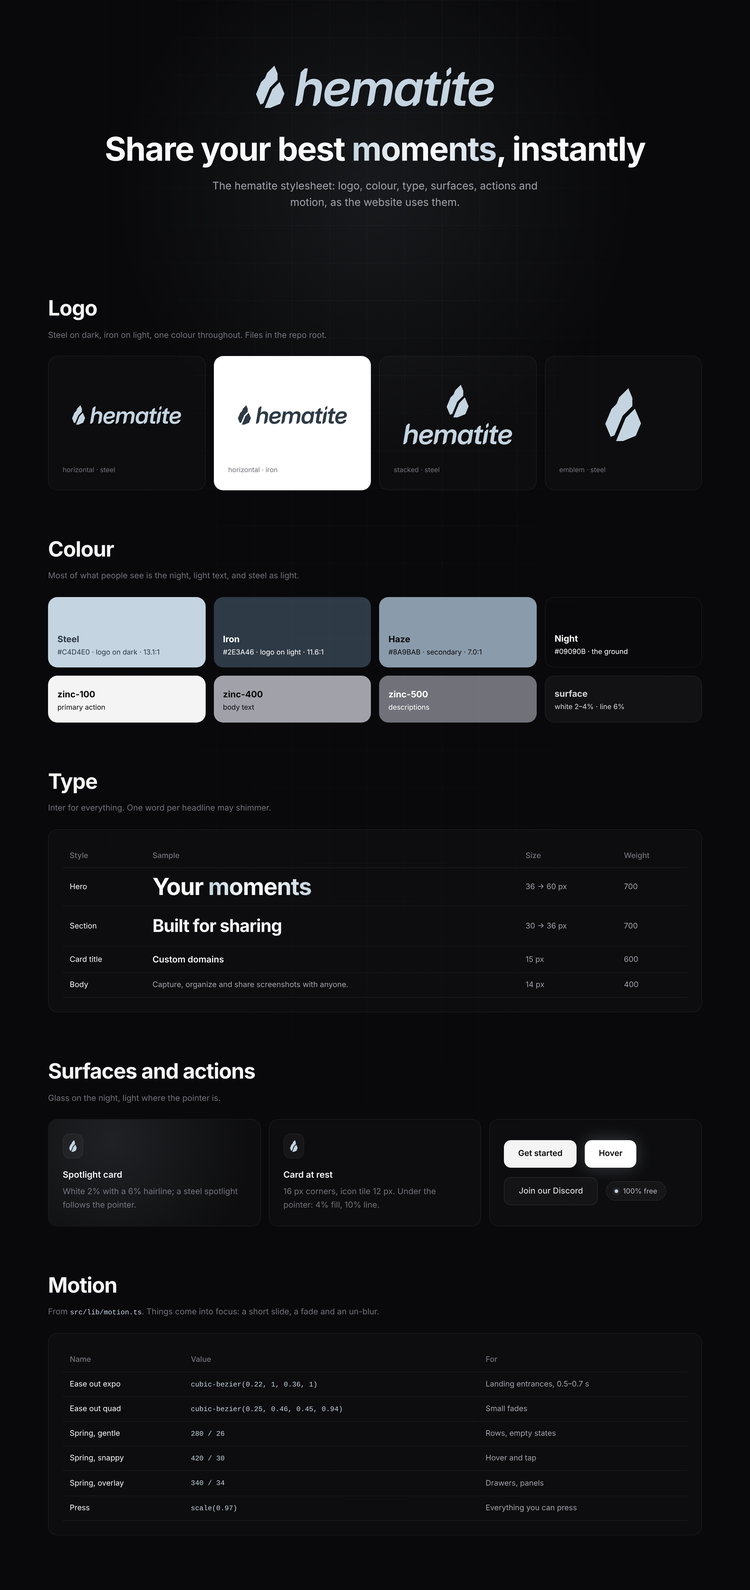
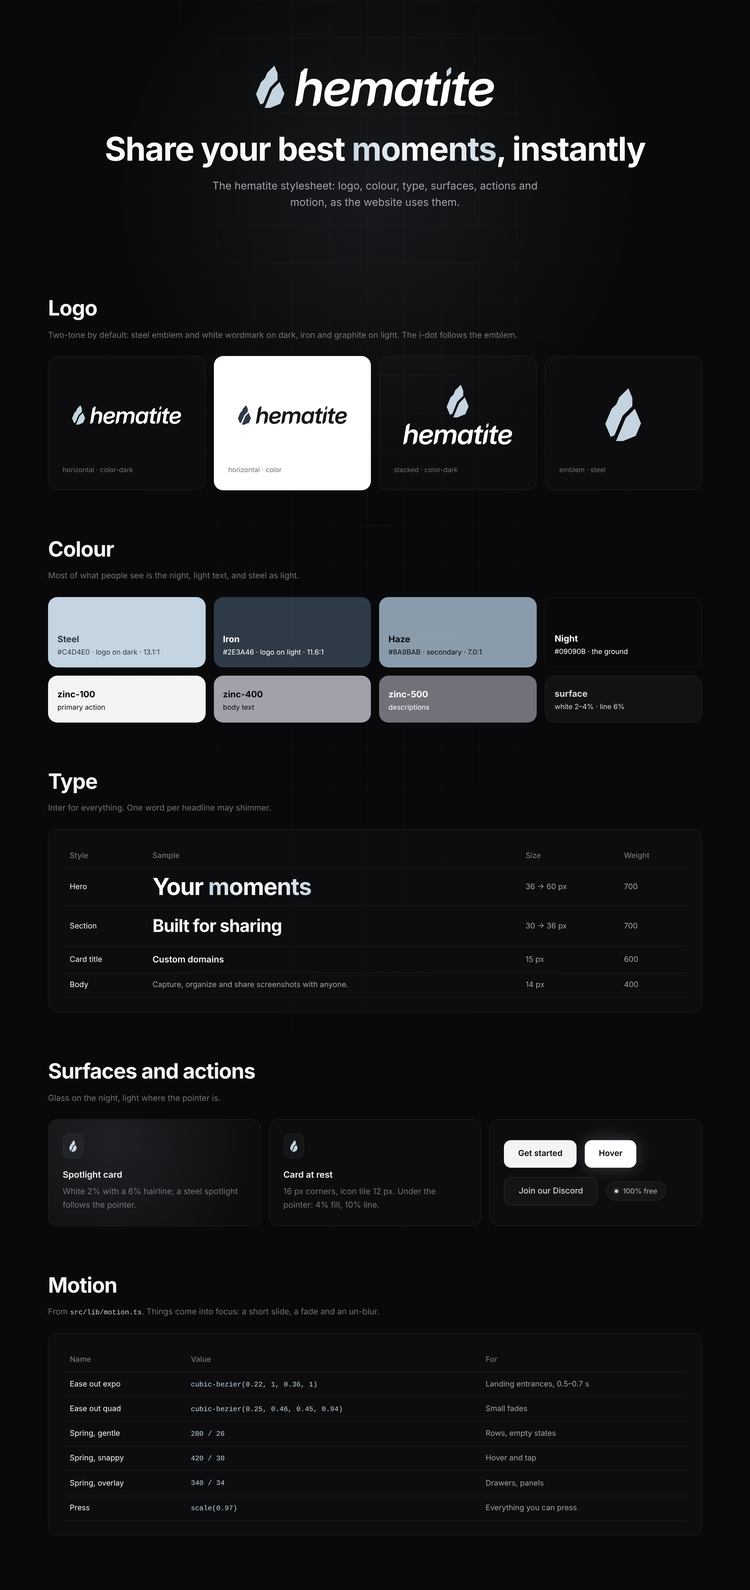
Add two-tone colourways color and color-dark

diff --git a/overview.html b/overview.html
@@ -4,4 +4,4 @@ h1{font-size:30px;margin:0 0 6px;letter-spacing:-.02em}.sub{color:#666;font-size
 .row{display:flex;gap:14px;margin-bottom:14px}.card{border-radius:12px;display:flex;align-items:center;justify-content:center;position:relative;overflow:hidden;flex:1}
 .b{border:1px solid #e3e3e6}.cap{position:absolute;left:12px;bottom:9px;font-size:11px;color:#8a8a92}
 .sw{flex:1;border-radius:12px;height:110px;padding:14px;display:flex;flex-direction:column;justify-content:flex-end;font-size:12px}.sw b{font-size:14px}
-.tab{display:flex;align-items:center;gap:8px;border-radius:8px;padding:7px 12px;width:240px;font-size:12.5px}</style></head><body><h1>hematite — logo system</h1><div class="sub">Emblem E2 · wordmark B2 (Inter Display SemiBold Italic, drawn) · C2 light cuts at 45° · S6 shard i-dot. Flat only. 11 Nov 2026.</div><div class="sec"><h2>01 — Primary logo</h2><div class="d">Horizontal lockup. Steel on night is the default; iron on white for light backgrounds.</div><div class="row"><div class="card" style="height:300px;background:#09090B"><img src="horizontal/svg/hematite-horizontal-steel.svg" style="max-height:110px;max-width:86%;"></div></div><div class="row"><div class="card b" style="height:200px;background:#fff"><img src="horizontal/svg/hematite-horizontal-iron.svg" style="max-height:80px;max-width:86%;"></div><div class="card" style="height:200px;background:#2E3A46"><img src="horizontal/svg/hematite-horizontal-white.svg" style="max-height:80px;max-width:86%;"></div></div></div><div class="sec"><h2>02 — Lockups and colourways</h2><div class="d">horizontal/, stacked/, wordmark/, emblem/ · each in steel, iron, black and white · SVG + PNG 1x–4x.</div><div class="row"><div class="card " style="height:130px;background:#09090B"><img src="horizontal/svg/hematite-horizontal-steel.svg" style="max-height:54px;max-width:86%;"><div class="cap">horizontal · steel</div></div><div class="card b" style="height:130px;background:#FFFFFF"><img src="horizontal/svg/hematite-horizontal-iron.svg" style="max-height:54px;max-width:86%;"><div class="cap">horizontal · iron</div></div><div class="card b" style="height:130px;background:#FFFFFF"><img src="horizontal/svg/hematite-horizontal-black.svg" style="max-height:54px;max-width:86%;"><div class="cap">horizontal · black</div></div><div class="card " style="height:130px;background:#2E3A46"><img src="horizontal/svg/hematite-horizontal-white.svg" style="max-height:54px;max-width:86%;"><div class="cap">horizontal · white</div></div></div><div class="row"><div class="card " style="height:230px;background:#09090B"><img src="stacked/svg/hematite-stacked-steel.svg" style="max-height:150px;max-width:86%;"><div class="cap">stacked · steel</div></div><div class="card b" style="height:230px;background:#FFFFFF"><img src="stacked/svg/hematite-stacked-iron.svg" style="max-height:150px;max-width:86%;"><div class="cap">stacked · iron</div></div><div class="card b" style="height:230px;background:#FFFFFF"><img src="stacked/svg/hematite-stacked-black.svg" style="max-height:150px;max-width:86%;"><div class="cap">stacked · black</div></div><div class="card " style="height:230px;background:#2E3A46"><img src="stacked/svg/hematite-stacked-white.svg" style="max-height:150px;max-width:86%;"><div class="cap">stacked · white</div></div></div><div class="row"><div class="card " style="height:110px;background:#09090B"><img src="wordmark/svg/hematite-wordmark-steel.svg" style="max-height:40px;max-width:86%;"><div class="cap">wordmark · steel</div></div><div class="card b" style="height:110px;background:#FFFFFF"><img src="wordmark/svg/hematite-wordmark-iron.svg" style="max-height:40px;max-width:86%;"><div class="cap">wordmark · iron</div></div><div class="card b" style="height:110px;background:#FFFFFF"><img src="wordmark/svg/hematite-wordmark-black.svg" style="max-height:40px;max-width:86%;"><div class="cap">wordmark · black</div></div><div class="card " style="height:110px;background:#2E3A46"><img src="wordmark/svg/hematite-wordmark-white.svg" style="max-height:40px;max-width:86%;"><div class="cap">wordmark · white</div></div></div><div class="row"><div class="card " style="height:180px;background:#09090B"><img src="emblem/svg/hematite-emblem-steel.svg" style="max-height:110px;max-width:86%;"><div class="cap">emblem · steel</div></div><div class="card b" style="height:180px;background:#FFFFFF"><img src="emblem/svg/hematite-emblem-iron.svg" style="max-height:110px;max-width:86%;"><div class="cap">emblem · iron</div></div><div class="card b" style="height:180px;background:#FFFFFF"><img src="emblem/svg/hematite-emblem-black.svg" style="max-height:110px;max-width:86%;"><div class="cap">emblem · black</div></div><div class="card " style="height:180px;background:#2E3A46"><img src="emblem/svg/hematite-emblem-white.svg" style="max-height:110px;max-width:86%;"><div class="cap">emblem · white</div></div></div></div><div class="sec"><h2>03 — Favicons and app icons</h2><div class="d">favicon/: favicon.svg (iron on light tabs, steel on dark), favicon.ico 16/32/48 and PNGs in haze #8A9BAB, which reads on both. Up to 48 px the emblem uses a small-size cut with a wider cleft. app-icon/: 1024 px on night and on steel, square and rounded.</div><div class="row"><div class="card b" style="height:90px;background:#F2F2F4"><div class="tab" style="background:#fff;color:#333"><img src="favicon/favicon-32.png" style="width:16px;height:16px">hematite.gg</div></div><div class="card" style="height:90px;background:#1C1C20"><div class="tab" style="background:#2A2A30;color:#ddd"><img src="favicon/favicon-32.png" style="width:16px;height:16px">hematite.gg</div></div><div class="card b" style="height:90px;background:#fff;gap:18px"><img src="favicon/favicon-16.png" style="width:16px"><img src="favicon/favicon-32.png" style="width:32px"><img src="favicon/favicon-48.png" style="width:48px"><img src="favicon/favicon-64.png" style="width:64px"></div></div><div class="row"><div class="card b" style="height:240px;gap:28px;background:#fff"><img src="app-icon/hematite-app-icon-night-rounded-1024.png" style="max-height:170px;max-width:86%;"><img src="app-icon/hematite-app-icon-steel-rounded-1024.png" style="max-height:170px;max-width:86%;"><img src="favicon/apple-touch-icon.png" style="max-height:90px;max-width:86%;border-radius:20px"></div></div></div><div class="sec"><h2>04 — Colours</h2><div class="row"><div class="sw" style="background:#C4D4E0;color:#151515;border:1px solid #ddd"><b>Steel</b>#C4D4E0 · Brand colour on dark</div><div class="sw" style="background:#2E3A46;color:#fff;"><b>Iron</b>#2E3A46 · Brand colour on light</div><div class="sw" style="background:#8A9BAB;color:#151515;"><b>Haze</b>#8A9BAB · Secondary, favicons</div><div class="sw" style="background:#09090B;color:#fff;"><b>Night</b>#09090B · Ground</div></div></div></body></html>
+.tab{display:flex;align-items:center;gap:8px;border-radius:8px;padding:7px 12px;width:240px;font-size:12.5px}</style></head><body><h1>hematite — logo system</h1><div class="sub">Emblem E2 · wordmark B2 (Inter Display SemiBold Italic, drawn) · C2 light cuts at 45° · S6 shard i-dot · two-tone T1/L1. Flat only. 11 Nov 2026.</div><div class="sec"><h2>01 — Primary logo</h2><div class="d">Horizontal lockup, two-tone: steel emblem and white wordmark on night (color-dark, the default), iron emblem and graphite wordmark on white (color). The i-dot follows the emblem.</div><div class="row"><div class="card" style="height:300px;background:#09090B"><img src="horizontal/svg/hematite-horizontal-color-dark.svg" style="max-height:110px;max-width:86%;"></div></div><div class="row"><div class="card b" style="height:200px;background:#fff"><img src="horizontal/svg/hematite-horizontal-color.svg" style="max-height:80px;max-width:86%;"></div><div class="card" style="height:200px;background:#2E3A46"><img src="horizontal/svg/hematite-horizontal-white.svg" style="max-height:80px;max-width:86%;"></div></div></div><div class="sec"><h2>02 — Lockups and colourways</h2><div class="d">horizontal/, stacked/, wordmark/ in color-dark, color, steel, iron, black and white; emblem/ in the four one-colour versions · SVG + PNG 1x–4x.</div><div class="row"><div class="card " style="height:120px;background:#09090B"><img src="horizontal/svg/hematite-horizontal-color-dark.svg" style="max-height:44px;max-width:86%;"><div class="cap">horizontal · color-dark</div></div><div class="card b" style="height:120px;background:#FFFFFF"><img src="horizontal/svg/hematite-horizontal-color.svg" style="max-height:44px;max-width:86%;"><div class="cap">horizontal · color</div></div><div class="card " style="height:120px;background:#09090B"><img src="horizontal/svg/hematite-horizontal-steel.svg" style="max-height:44px;max-width:86%;"><div class="cap">horizontal · steel</div></div><div class="card b" style="height:120px;background:#FFFFFF"><img src="horizontal/svg/hematite-horizontal-iron.svg" style="max-height:44px;max-width:86%;"><div class="cap">horizontal · iron</div></div><div class="card b" style="height:120px;background:#FFFFFF"><img src="horizontal/svg/hematite-horizontal-black.svg" style="max-height:44px;max-width:86%;"><div class="cap">horizontal · black</div></div><div class="card " style="height:120px;background:#2E3A46"><img src="horizontal/svg/hematite-horizontal-white.svg" style="max-height:44px;max-width:86%;"><div class="cap">horizontal · white</div></div></div><div class="row"><div class="card " style="height:210px;background:#09090B"><img src="stacked/svg/hematite-stacked-color-dark.svg" style="max-height:130px;max-width:86%;"><div class="cap">stacked · color-dark</div></div><div class="card b" style="height:210px;background:#FFFFFF"><img src="stacked/svg/hematite-stacked-color.svg" style="max-height:130px;max-width:86%;"><div class="cap">stacked · color</div></div><div class="card " style="height:210px;background:#09090B"><img src="stacked/svg/hematite-stacked-steel.svg" style="max-height:130px;max-width:86%;"><div class="cap">stacked · steel</div></div><div class="card b" style="height:210px;background:#FFFFFF"><img src="stacked/svg/hematite-stacked-iron.svg" style="max-height:130px;max-width:86%;"><div class="cap">stacked · iron</div></div><div class="card b" style="height:210px;background:#FFFFFF"><img src="stacked/svg/hematite-stacked-black.svg" style="max-height:130px;max-width:86%;"><div class="cap">stacked · black</div></div><div class="card " style="height:210px;background:#2E3A46"><img src="stacked/svg/hematite-stacked-white.svg" style="max-height:130px;max-width:86%;"><div class="cap">stacked · white</div></div></div><div class="row"><div class="card " style="height:100px;background:#09090B"><img src="wordmark/svg/hematite-wordmark-color-dark.svg" style="max-height:34px;max-width:86%;"><div class="cap">wordmark · color-dark</div></div><div class="card b" style="height:100px;background:#FFFFFF"><img src="wordmark/svg/hematite-wordmark-color.svg" style="max-height:34px;max-width:86%;"><div class="cap">wordmark · color</div></div><div class="card " style="height:100px;background:#09090B"><img src="wordmark/svg/hematite-wordmark-steel.svg" style="max-height:34px;max-width:86%;"><div class="cap">wordmark · steel</div></div><div class="card b" style="height:100px;background:#FFFFFF"><img src="wordmark/svg/hematite-wordmark-iron.svg" style="max-height:34px;max-width:86%;"><div class="cap">wordmark · iron</div></div><div class="card b" style="height:100px;background:#FFFFFF"><img src="wordmark/svg/hematite-wordmark-black.svg" style="max-height:34px;max-width:86%;"><div class="cap">wordmark · black</div></div><div class="card " style="height:100px;background:#2E3A46"><img src="wordmark/svg/hematite-wordmark-white.svg" style="max-height:34px;max-width:86%;"><div class="cap">wordmark · white</div></div></div><div class="row"><div class="card " style="height:170px;background:#09090B"><img src="emblem/svg/hematite-emblem-steel.svg" style="max-height:100px;max-width:86%;"><div class="cap">emblem · steel</div></div><div class="card b" style="height:170px;background:#FFFFFF"><img src="emblem/svg/hematite-emblem-iron.svg" style="max-height:100px;max-width:86%;"><div class="cap">emblem · iron</div></div><div class="card b" style="height:170px;background:#FFFFFF"><img src="emblem/svg/hematite-emblem-black.svg" style="max-height:100px;max-width:86%;"><div class="cap">emblem · black</div></div><div class="card " style="height:170px;background:#2E3A46"><img src="emblem/svg/hematite-emblem-white.svg" style="max-height:100px;max-width:86%;"><div class="cap">emblem · white</div></div></div></div><div class="sec"><h2>03 — Favicons and app icons</h2><div class="d">favicon/: favicon.svg (iron on light tabs, steel on dark), favicon.ico 16/32/48 and PNGs in haze #8A9BAB, which reads on both. Up to 48 px the emblem uses a small-size cut with a wider cleft. app-icon/: 1024 px on night and on steel, square and rounded.</div><div class="row"><div class="card b" style="height:90px;background:#F2F2F4"><div class="tab" style="background:#fff;color:#333"><img src="favicon/favicon-32.png" style="width:16px;height:16px">hematite.gg</div></div><div class="card" style="height:90px;background:#1C1C20"><div class="tab" style="background:#2A2A30;color:#ddd"><img src="favicon/favicon-32.png" style="width:16px;height:16px">hematite.gg</div></div><div class="card b" style="height:90px;background:#fff;gap:18px"><img src="favicon/favicon-16.png" style="width:16px"><img src="favicon/favicon-32.png" style="width:32px"><img src="favicon/favicon-48.png" style="width:48px"><img src="favicon/favicon-64.png" style="width:64px"></div></div><div class="row"><div class="card b" style="height:240px;gap:28px;background:#fff"><img src="app-icon/hematite-app-icon-night-rounded-1024.png" style="max-height:170px;max-width:86%;"><img src="app-icon/hematite-app-icon-steel-rounded-1024.png" style="max-height:170px;max-width:86%;"><img src="favicon/apple-touch-icon.png" style="max-height:90px;max-width:86%;border-radius:20px"></div></div></div><div class="sec"><h2>04 — Colours</h2><div class="row"><div class="sw" style="background:#C4D4E0;color:#151515;border:1px solid #ddd"><b>Steel</b>#C4D4E0 · Emblem on dark</div><div class="sw" style="background:#2E3A46;color:#fff;"><b>Iron</b>#2E3A46 · Emblem on light</div><div class="sw" style="background:#18181B;color:#fff;"><b>Graphite</b>#18181B · Wordmark on light</div><div class="sw" style="background:#8A9BAB;color:#151515;"><b>Haze</b>#8A9BAB · Secondary, favicons</div><div class="sw" style="background:#09090B;color:#fff;"><b>Night</b>#09090B · Ground</div></div></div></body></html>

diff --git a/brand/stylesheet.html b/brand/stylesheet.html
@@ -40,15 +40,15 @@ code{font-size:12px;color:var(--hm-steel)}
 @media (max-width:800px){.c4,.c3{grid-template-columns:1fr 1fr}.c2{grid-template-columns:1fr}}
 </style></head><body>
 <div class="wrap"><div class="glow"></div><div class="grid"></div>
-<header><img src="../horizontal/svg/hematite-horizontal-steel.svg" alt="hematite">
+<header><img src="../horizontal/svg/hematite-horizontal-color-dark.svg" alt="hematite">
 <h1>Share your best <span class="shimmer">moments</span>, instantly</h1>
 <p class="lead">The hematite stylesheet: logo, colour, type, surfaces, actions and motion, as the website uses them.</p></header>
 
-<h2>Logo</h2><p class="sub">Steel on dark, iron on light, one colour throughout. Files in the repo root.</p>
+<h2>Logo</h2><p class="sub">Two-tone by default: steel emblem and white wordmark on dark, iron and graphite on light. The i-dot follows the emblem.</p>
 <div class="row c4">
-<div class="card"><div class="logo"><img src="../horizontal/svg/hematite-horizontal-steel.svg"></div><div class="cap">horizontal · steel</div></div>
-<div class="card light"><div class="logo"><img src="../horizontal/svg/hematite-horizontal-iron.svg"></div><div class="cap">horizontal · iron</div></div>
-<div class="card"><div class="logo"><img src="../stacked/svg/hematite-stacked-steel.svg" style="max-height:110px"></div><div class="cap">stacked · steel</div></div>
+<div class="card"><div class="logo"><img src="../horizontal/svg/hematite-horizontal-color-dark.svg"></div><div class="cap">horizontal · color-dark</div></div>
+<div class="card light"><div class="logo"><img src="../horizontal/svg/hematite-horizontal-color.svg"></div><div class="cap">horizontal · color</div></div>
+<div class="card"><div class="logo"><img src="../stacked/svg/hematite-stacked-color-dark.svg" style="max-height:110px"></div><div class="cap">stacked · color-dark</div></div>
 <div class="card"><div class="logo"><img src="../emblem/svg/hematite-emblem-steel.svg" style="max-height:90px"></div><div class="cap">emblem · steel</div></div>
 </div>
 

diff --git a/brand/tokens.css b/brand/tokens.css
@@ -1,8 +1,9 @@
 /* hematite design tokens — mirrors hematite/website as of 11 Nov 2026. See BRAND.md and DESIGN-LANGUAGE.md. */
 :root {
   /* Brand */
-  --hm-steel: #c4d4e0;          /* logo on dark, accents, glows (website: --hematite) */
-  --hm-iron: #2e3a46;           /* logo on light */
+  --hm-steel: #c4d4e0;          /* emblem / logo on dark, accents, glows (website: --hematite) */
+  --hm-iron: #2e3a46;           /* emblem / logo on light */
+  --hm-graphite: #18181b;       /* wordmark in the light two-tone logo (zinc-900) */
   --hm-haze: #8a9bab;           /* secondary, favicons, second glow */
   --hm-night: #09090b;          /* zinc-950, the ground */
 

diff --git a/process/generator/overview.py b/process/generator/overview.py
@@ -1,7 +1,7 @@
 """brand/overview.html: the locked system, built from the exported files."""
 import os
 ROOT=os.environ.get('BRAND', os.path.abspath(os.path.join(os.path.dirname(os.path.abspath(__file__)),'..','..')))
-NIGHT='#09090B'; BG={'steel':NIGHT,'iron':'#FFFFFF','black':'#FFFFFF','white':'#2E3A46'}
+NIGHT='#09090B'; BG={'color-dark':NIGHT,'color':'#FFFFFF','steel':NIGHT,'iron':'#FFFFFF','black':'#FFFFFF','white':'#2E3A46'}
 def im(path,h,extra=''): return f'<img src="{path}" style="max-height:{h}px;max-width:86%;{extra}">'
 css='''*{box-sizing:border-box}body{margin:0;background:#EEEEF0;font-family:Inter,system-ui,sans-serif;color:#151515;padding:44px}
 h1{font-size:30px;margin:0 0 6px;letter-spacing:-.02em}.sub{color:#666;font-size:14px;margin-bottom:34px}
@@ -10,15 +10,16 @@ h1{font-size:30px;margin:0 0 6px;letter-spacing:-.02em}.sub{color:#666;font-size
 .b{border:1px solid #e3e3e6}.cap{position:absolute;left:12px;bottom:9px;font-size:11px;color:#8a8a92}
 .sw{flex:1;border-radius:12px;height:110px;padding:14px;display:flex;flex-direction:column;justify-content:flex-end;font-size:12px}.sw b{font-size:14px}
 .tab{display:flex;align-items:center;gap:8px;border-radius:8px;padding:7px 12px;width:240px;font-size:12.5px}'''
-H=[f'<html><head><meta charset="utf-8"><style>{css}</style></head><body><h1>hematite — logo system</h1><div class="sub">Emblem E2 · wordmark B2 (Inter Display SemiBold Italic, drawn) · C2 light cuts at 45° · S6 shard i-dot. Flat only. 11 Nov 2026.</div>']
-H.append(f'<div class="sec"><h2>01 — Primary logo</h2><div class="d">Horizontal lockup. Steel on night is the default; iron on white for light backgrounds.</div><div class="row"><div class="card" style="height:300px;background:{NIGHT}">{im("horizontal/svg/hematite-horizontal-steel.svg",110)}</div></div><div class="row"><div class="card b" style="height:200px;background:#fff">{im("horizontal/svg/hematite-horizontal-iron.svg",80)}</div><div class="card" style="height:200px;background:#2E3A46">{im("horizontal/svg/hematite-horizontal-white.svg",80)}</div></div></div>')
-H.append('<div class="sec"><h2>02 — Lockups and colourways</h2><div class="d">horizontal/, stacked/, wordmark/, emblem/ · each in steel, iron, black and white · SVG + PNG 1x–4x.</div>')
-for name,hh,ch in (('horizontal',54,130),('stacked',150,230),('wordmark',40,110),('emblem',110,180)):
-    cells=''.join(f'<div class="card {"b" if BG[c]=="#FFFFFF" else ""}" style="height:{ch}px;background:{BG[c]}">{im(f"{name}/svg/hematite-{name}-{c}.svg",hh)}<div class="cap">{name} · {c}</div></div>' for c in ('steel','iron','black','white'))
+H=[f'<html><head><meta charset="utf-8"><style>{css}</style></head><body><h1>hematite — logo system</h1><div class="sub">Emblem E2 · wordmark B2 (Inter Display SemiBold Italic, drawn) · C2 light cuts at 45° · S6 shard i-dot · two-tone T1/L1. Flat only. 11 Nov 2026.</div>']
+H.append(f'<div class="sec"><h2>01 — Primary logo</h2><div class="d">Horizontal lockup, two-tone: steel emblem and white wordmark on night (color-dark, the default), iron emblem and graphite wordmark on white (color). The i-dot follows the emblem.</div><div class="row"><div class="card" style="height:300px;background:{NIGHT}">{im("horizontal/svg/hematite-horizontal-color-dark.svg",110)}</div></div><div class="row"><div class="card b" style="height:200px;background:#fff">{im("horizontal/svg/hematite-horizontal-color.svg",80)}</div><div class="card" style="height:200px;background:#2E3A46">{im("horizontal/svg/hematite-horizontal-white.svg",80)}</div></div></div>')
+H.append('<div class="sec"><h2>02 — Lockups and colourways</h2><div class="d">horizontal/, stacked/, wordmark/ in color-dark, color, steel, iron, black and white; emblem/ in the four one-colour versions · SVG + PNG 1x–4x.</div>')
+for name,hh,ch in (('horizontal',44,120),('stacked',130,210),('wordmark',34,100),('emblem',100,170)):
+    cws=('steel','iron','black','white') if name=='emblem' else ('color-dark','color','steel','iron','black','white')
+    cells=''.join(f'<div class="card {"b" if BG[c]=="#FFFFFF" else ""}" style="height:{ch}px;background:{BG[c]}">{im(f"{name}/svg/hematite-{name}-{c}.svg",hh)}<div class="cap">{name} · {c}</div></div>' for c in cws)
     H.append(f'<div class="row">{cells}</div>')
 H.append('</div>')
 tabs=lambda bg,fg: f'<div class="tab" style="background:{bg};color:{fg}"><img src="favicon/favicon-32.png" style="width:16px;height:16px">hematite.gg</div>'
 H.append(f'<div class="sec"><h2>03 — Favicons and app icons</h2><div class="d">favicon/: favicon.svg (iron on light tabs, steel on dark), favicon.ico 16/32/48 and PNGs in haze #8A9BAB, which reads on both. Up to 48 px the emblem uses a small-size cut with a wider cleft. app-icon/: 1024 px on night and on steel, square and rounded.</div><div class="row"><div class="card b" style="height:90px;background:#F2F2F4">{tabs("#fff","#333")}</div><div class="card" style="height:90px;background:#1C1C20">{tabs("#2A2A30","#ddd")}</div><div class="card b" style="height:90px;background:#fff;gap:18px">'+''.join(f'<img src="favicon/favicon-{s}.png" style="width:{s}px">' for s in (16,32,48,64))+f'</div></div><div class="row"><div class="card b" style="height:240px;gap:28px;background:#fff">{im("app-icon/hematite-app-icon-night-rounded-1024.png",170)}{im("app-icon/hematite-app-icon-steel-rounded-1024.png",170)}{im("favicon/apple-touch-icon.png",90,"border-radius:20px")}</div></div></div>')
-sw=[('Steel','#C4D4E0','#151515','Brand colour on dark'),('Iron','#2E3A46','#fff','Brand colour on light'),('Haze','#8A9BAB','#151515','Secondary, favicons'),('Night','#09090B','#fff','Ground')]
+sw=[('Steel','#C4D4E0','#151515','Emblem on dark'),('Iron','#2E3A46','#fff','Emblem on light'),('Graphite','#18181B','#fff','Wordmark on light'),('Haze','#8A9BAB','#151515','Secondary, favicons'),('Night','#09090B','#fff','Ground')]
 H.append('<div class="sec"><h2>04 — Colours</h2><div class="row">'+''.join(f'<div class="sw" style="background:{c};color:{t};{"border:1px solid #ddd" if c=="#C4D4E0" else ""}"><b>{n}</b>{c} · {u}</div>' for n,c,t,u in sw)+'</div></div></body></html>')
 open(f'{ROOT}/overview.html','w').write(''.join(H))

diff --git a/process/generator/export.py b/process/generator/export.py
@@ -5,6 +5,9 @@ from PIL import Image
 ROOT=os.environ.get('BRAND', os.path.abspath(os.path.join(os.path.dirname(os.path.abspath(__file__)),'..','..')))
 COL={'steel':'#C4D4E0','iron':'#2E3A46','black':'#000000','white':'#FFFFFF'}
 NIGHT='#09090B'; HAZE='#8A9BAB'
+# two-tone colourways (round 5: T1 and L1). The i-dot takes the emblem's colour.
+COL2={'color-dark':{'emblem':'#C4D4E0','letters':'#FFFFFF','dot':'#C4D4E0'},   # steel emblem, white letters
+      'color':     {'emblem':'#2E3A46','letters':'#18181B','dot':'#2E3A46'}}   # iron emblem, graphite letters
 PX1={'emblem':512,'wordmark':128,'horizontal':160,'stacked':400}   # 1x heights in px
 
 def layouts():
@@ -23,6 +26,22 @@ def layouts():
     out['stacked']=FN.transform(E,s2,-ex0*s2+(wx0+wx1)/2-ew2/2,-ey0*s2+770+180)+W
     return out
 
+def layout_parts():
+    """the same layouts as layouts(), split into emblem / letters / dot for two-tone colourways"""
+    letters,dot,w=FN.wordmark_parts()
+    E=FN.emblem_polys('grid'); ex0,ey0,ex1,ey1=FN.bbox(E)
+    s=820/(ey1-ey0); ew=(ex1-ex0)*s; gap=ew*0.36
+    out={'wordmark':{'letters':letters,'dot':dot}}
+    out['horizontal']={'emblem':FN.transform(E,s,-ex0*s,-ey0*s-40),'letters':FN.transform(letters,1,ew+gap,0),'dot':FN.transform(dot,1,ew+gap,0)}
+    wx0,wy0,wx1,wy1=FN.bbox(letters+dot); s2=1155/(ey1-ey0); ew2=(ex1-ex0)*s2
+    out['stacked']={'emblem':FN.transform(E,s2,-ex0*s2+(wx0+wx1)/2-ew2/2,-ey0*s2+770+180),'letters':letters,'dot':dot}
+    return out
+def svg_multi(parts, colours, h_px=None):
+    allp=[p for v in parts.values() for p in v]; x0,y0,x1,y1=FN.bbox(allp); w=x1-x0; h=y1-y0
+    size=f' width="{w*h_px/h:.1f}" height="{h_px}"' if h_px else ''
+    body=''.join(f'<path d="{FN.to_d(parts[r])}" fill="{colours[r]}"/>' for r in ('emblem','letters','dot') if r in parts)
+    return f'<svg xmlns="http://www.w3.org/2000/svg" viewBox="{x0:.1f} {-y1:.1f} {w:.1f} {h:.1f}"{size}>{body}</svg>'
+
 def svg(polys, fill, h_px=None, pad=0, bg=None):
     x0,y0,x1,y1=FN.bbox(polys); w=x1-x0+2*pad; h=y1-y0+2*pad
     size=f' width="{w*h_px/h:.1f}" height="{h_px}"' if h_px else ''
@@ -40,6 +59,14 @@ def main():
             base=f'hematite-{name}-{cw}'
             s=svg(polys,fill,PX1[name])
             open(os.path.join(mk(f'{ROOT}/{name}/svg'),base+'.svg'),'w').write(svg(polys,fill)); n+=1
+            for k in (1,2,3,4):
+                suf='' if k==1 else f'@{k}x'
+                png(s,os.path.join(mk(f'{ROOT}/{name}/png/{k}x'),base+suf+'.png'),h=PX1[name]*k); n+=1
+    for name,parts in layout_parts().items():
+        for cw,cols in COL2.items():
+            base=f'hematite-{name}-{cw}'
+            open(os.path.join(mk(f'{ROOT}/{name}/svg'),base+'.svg'),'w').write(svg_multi(parts,cols)); n+=1
+            s=svg_multi(parts,cols,PX1[name])
             for k in (1,2,3,4):
                 suf='' if k==1 else f'@{k}x'
                 png(s,os.path.join(mk(f'{ROOT}/{name}/png/{k}x'),base+suf+'.png'),h=PX1[name]*k); n+=1

diff --git a/brand/BRAND.md b/brand/BRAND.md
@@ -6,7 +6,7 @@ hematite.gg is a free screenshot uploader: capture, organise and share screensho
 
 ## The brand at a glance
 
-- **One colour per ground.** Steel `#C4D4E0` on dark, iron `#2E3A46` on light. Nothing else pretends to be the brand.
+- **Two tones per ground.** On dark, a steel `#C4D4E0` emblem with a white wordmark; on light, an iron `#2E3A46` emblem with a graphite `#18181B` wordmark. The i-dot always follows the emblem.
 - **One night.** The product lives on near-black zinc, `#09090B`, and light comes into it as a soft steel glow.
 - **One family of angles.** Everything follows the emblem's 22.5° grid: the emblem's edges, the 45° cuts in the wordmark, the shard i-dot.
 - **One typeface.** Inter for all text. Inter Display exists only inside the drawn wordmark.
@@ -38,14 +38,16 @@ The wordmark is lettering, not type. Never retype it in a font; always use the f
 
 ### Colourways
 
-| Colourway | Logo  | Use on                            |
-|-----------|-------|-----------------------------------|
-| `steel`   | Steel | Night and dark backgrounds        |
-| `iron`    | Iron  | White and light backgrounds       |
-| `black`   | Black | One colour, print                 |
-| `white`   | White | Photos, iron and coloured grounds |
+| Colourway    | Emblem + i-dot | Wordmark | Use on                                   |
+|--------------|----------------|----------|------------------------------------------|
+| `color-dark` | Steel          | White    | Night and dark backgrounds. The default  |
+| `color`      | Iron           | Graphite | White and light backgrounds              |
+| `steel`      | Steel          | Steel    | Dark, where one colour is needed         |
+| `iron`       | Iron           | Iron     | Light, where one colour is needed        |
+| `black`      | Black          | Black    | One colour, print                        |
+| `white`      | White          | White    | Photos, iron and coloured grounds        |
 
-The logo is always one colour: emblem, letters and i-dot match.
+In the two-tone colourways the i-dot ties the word back to the emblem: it always takes the emblem's colour. The emblem alone has no two-tone version; it comes in steel, iron, black and white.
 
 ## Colour
 
@@ -53,8 +55,9 @@ Most of what people see is the night, light text, and steel as light. Colour is 
 
 | Role        | Token         | Hex / value               | Use                                                     |
 |-------------|---------------|---------------------------|---------------------------------------------------------|
-| Steel       | `steel`       | `#C4D4E0`                 | The logo on dark, accents, the glows, icon tint         |
-| Iron        | `iron`        | `#2E3A46`                 | The logo on light; text on steel                        |
+| Steel       | `steel`       | `#C4D4E0`                 | The emblem on dark, one-colour logo on dark, accents, glows, icon tint |
+| Iron        | `iron`        | `#2E3A46`                 | The emblem on light; one-colour logo on light; text on steel |
+| Graphite    | `graphite`    | `#18181B` (zinc-900)      | The wordmark in the light two-tone logo (17.7:1 on white) |
 | Haze        | `haze`        | `#8A9BAB`                 | Secondary marks, favicons, the second glow              |
 | Night       | `night`       | `#09090B` (zinc-950)      | The ground of everything digital                        |
 | Surface     | `surface`     | white at 2–4%             | Cards and panels on the night                           |
@@ -87,19 +90,19 @@ In a headline, one word can carry the steel shimmer (steel → white → steel, 
 | Need                       | Use                                                              |
 |----------------------------|------------------------------------------------------------------|
 | Website favicon            | `favicon/` (snippet in the README)                               |
-| Website header and footer  | `horizontal/svg/hematite-horizontal-steel.svg`                   |
+| Website header and footer  | `horizontal/svg/hematite-horizontal-color-dark.svg`              |
 | App sidebar                | `emblem/svg/hematite-emblem-steel.svg` (32 px: use the favicon cut) |
 | Open Graph / link preview  | Not made yet; steel lockup on night, see DESIGN-LANGUAGE.md      |
 | Discord server icon        | `app-icon/hematite-app-icon-night-1024.png`                      |
 | Profile pictures           | `app-icon/hematite-app-icon-night-1024.png` on dark platforms, `…-steel-1024.png` on light ones |
-| Documents, email           | `horizontal/svg/hematite-horizontal-iron.svg`                    |
+| Documents, email           | `horizontal/svg/hematite-horizontal-color.svg`                   |
 | Print, merch               | Black or white SVG, one colour                                   |
 
 ## Don'ts
 
 - Don't retype, re-space or redraw the wordmark, and don't swap its font.
 - Don't put steel on white or light backgrounds; use iron.
-- Don't make the logo two-tone, and don't colour the i-dot on its own.
+- Don't make other two-tone pairs than `color` and `color-dark`, and don't give the i-dot its own colour.
 - Don't add, remove or deepen the cuts in the letters.
 - Don't add drop shadows, glows, outlines, bevels, gradients or 3D to the logo.
 - Don't rotate, skew or stretch the logo.

diff --git a/README.md b/README.md
@@ -6,7 +6,7 @@ What it is:
 
 - **Emblem (E2).** Two crystal shards split by a cleft. Every edge sits on a 22.5° grid; the cleft runs at 45°, then 67.5°.
 - **Wordmark.** "hematite", drawn from Inter Display SemiBold Italic, with 45° cuts on the stem tops and feet and a small shard as the i-dot.
-- **One brand colour per ground.** Steel `#C4D4E0` on dark, iron `#2E3A46` on light.
+- **Two-tone by default.** On dark: steel `#C4D4E0` emblem and i-dot, white wordmark. On light: iron `#2E3A46` emblem and i-dot, graphite `#18181B` wordmark. One-colour versions for everything else.
 
 The full guide is [brand/BRAND.md](brand/BRAND.md); notes for agents are in [AGENTS.md](AGENTS.md).
 
@@ -16,27 +16,30 @@ The full guide is [brand/BRAND.md](brand/BRAND.md); notes for agents are in [AGE
 |-------|-----------|--------------------------------------------------------|
 | Steel | `#C4D4E0` | The logo on dark backgrounds. The default              |
 | Iron  | `#2E3A46` | The logo on white and light backgrounds (11.6:1)       |
+| Graphite | `#18181B` | The wordmark in the light two-tone logo (zinc-900, 17.7:1 on white) |
 | Haze  | `#8A9BAB` | Secondary; favicons, which must read on light and dark |
 | Night | `#09090B` | The dark ground (the app's zinc-950)                   |
 
 ## Colourways
 
-| Colourway | Logo  | Use on                          |
-|-----------|-------|---------------------------------|
-| `steel`   | Steel | Night and dark backgrounds      |
-| `iron`    | Iron  | White and light backgrounds     |
-| `black`   | Black | One colour, print               |
-| `white`   | White | Photos, iron and coloured grounds |
+| Colourway    | Emblem + i-dot | Wordmark | Use on                                  |
+|--------------|----------------|----------|-----------------------------------------|
+| `color-dark` | Steel          | White    | Night and dark backgrounds. The default |
+| `color`      | Iron           | Graphite | White and light backgrounds             |
+| `steel`      | Steel          | Steel    | Dark, one colour                        |
+| `iron`       | Iron           | Iron     | Light, one colour                       |
+| `black`      | Black          | Black    | One colour, print                       |
+| `white`      | White          | White    | Photos, iron and coloured grounds       |
 
-The logo is one colour throughout: emblem, letters and i-dot always match.
+In the two-tone colourways the i-dot always takes the emblem's colour, never the wordmark's. The emblem alone comes in the four one-colour versions.
 
 ## Folders
 
 | Folder          | Contents                                                                                       |
 |-----------------|------------------------------------------------------------------------------------------------|
-| `horizontal/`   | Primary lockup, 4 colourways, SVG + PNG 1x–4x (1x = 160 px tall)                              |
-| `stacked/`      | Emblem above the wordmark, 4 colourways, SVG + PNG 1x–4x (1x = 400 px)                        |
-| `wordmark/`     | Wordmark only, 4 colourways, SVG + PNG 1x–4x (1x = 128 px)                                    |
+| `horizontal/`   | Primary lockup, 6 colourways, SVG + PNG 1x–4x (1x = 160 px tall)                              |
+| `stacked/`      | Emblem above the wordmark, 6 colourways, SVG + PNG 1x–4x (1x = 400 px)                        |
+| `wordmark/`     | Wordmark only, 6 colourways, SVG + PNG 1x–4x (1x = 128 px)                                    |
 | `emblem/`       | Emblem only, 4 colourways, SVG + PNG 1x–4x (1x = 512 px)                                      |
 | `favicon/`      | `favicon.svg`, `favicon.ico` (16/32/48), PNGs 16–128, apple-touch 180, android-chrome 192/512 |
 | `app-icon/`     | 1024 px: steel emblem on night, iron emblem on steel, square and rounded                       |

diff --git a/AGENTS.md b/AGENTS.md
@@ -23,7 +23,7 @@ Read this before you make, pick or change anything with the hematite logo or des
 
 1. **The wordmark is a drawing.** Never set "hematite" in a font, Inter Display included. Use the SVG/PNG files.
 2. **Steel on dark, iron on light.** Steel `#C4D4E0` has only 1.5:1 contrast on white: never put it on light grounds.
-3. **One colour per logo.** Emblem, letters and i-dot always share one colour. No two-tone logo, no coloured i-dot.
+3. **Two pairs only.** The two-tone logo is `color-dark` (steel emblem, white wordmark) or `color` (iron emblem, graphite wordmark); everything else is one colour. The i-dot always takes the emblem's colour. Don't invent other pairs or a red i-dot.
 4. **The 22.5° grid.** Every new shape (patterns, icons, motion paths) takes its angles from 22.5°, 45° and 67.5°.
 5. **Cuts are fixed.** Don't add, remove or deepen cuts on the letters; they are part of the drawing (C2 light).
 6. **Small sizes use the small-size cut.** At 48 px and below, use the favicon emblem (wider cleft), not a scaled-down `emblem/` file.
@@ -35,8 +35,9 @@ Read this before you make, pick or change anything with the hematite logo or des
 
 | You need                                 | Take                                                   |
 |------------------------------------------|--------------------------------------------------------|
-| The logo on a dark UI, slide or image    | `horizontal/svg/hematite-horizontal-steel.svg`         |
-| The logo on a white page, doc, email     | `horizontal/svg/hematite-horizontal-iron.svg`          |
+| The logo on a dark UI, slide or image    | `horizontal/svg/hematite-horizontal-color-dark.svg`    |
+| The logo on a white page, doc, email     | `horizontal/svg/hematite-horizontal-color.svg`         |
+| One colour on dark / light               | `…-steel.svg` / `…-iron.svg`                           |
 | One colour, print                        | `horizontal/svg/hematite-horizontal-black.svg`         |
 | On a photo or a coloured surface         | `horizontal/svg/hematite-horizontal-white.svg`         |
 | Square or tall formats                   | `stacked/svg/hematite-stacked-<colourway>.svg`         |
@@ -50,6 +51,7 @@ Read this before you make, pick or change anything with the hematite logo or des
 
 Every logo file comes from `process/generator/` (Python, no network). Don't hand-edit exports: change the generator and run `python3 export.py` (see `process/generator/README.md`).
 
+- Two-tone colourways are `COL2` in `export.py`; the letters and the i-dot come separately from `final.wordmark_parts()`.
 - The locked logo lives in `final.py`: emblem `grid`, Inter Display SemiBold Italic, track −22, cuts `ladder_c2(45)`, i-dot `S6` at 1.22×.
 - Cuts are subtracted from the letter outlines there, so exports are plain paths with no masks. Keep it that way.
 - Rounds 1–4 have their own scripts (`make_board.py`, `round2.py` … `round4.py`); they rebuild the boards in `process/`.

diff --git a/process/README.md b/process/README.md
@@ -8,7 +8,7 @@ The finished logo lives one level up. This folder keeps the exploration that led
 | `02-e2-b2-cuts-and-dots/`     | Round 2: B2 with more cuts (C1 stem tops → C4 every diagonal, C5 at 22.5°, C6 at 67.5°) and sixteen i-dots (D1–D16). **Picked: C2 (tops and feet).** |
 | `03-c2-depth-and-dots/`       | Round 3: C2 at three depths (45, 62, 80) and the sixteen dots on C2. **Picked: light (45); dot toward D2.** |
 | `04-shard-dots/`              | Round 4: twelve new shard dots (S1–S12), grown on the 22.5° grid, a little smaller than D2. **Picked: S6.** |
-| `05-two-tone/`                | Round 5: emblem and wordmark in separate colours, on dark (T1–T8) and light (L1–L6), the i-dot following either; plus accent-dot-only versions (A1–A6). New colours tried: slate `#5F7385`, streak `#C0503F` / `#A33A2C`. |
+| `05-two-tone/`                | Round 5: emblem and wordmark in separate colours, on dark (T1–T8) and light (L1–L6), the i-dot following either; plus accent-dot-only versions (A1–A6). New colours tried: slate `#5F7385`, streak `#C0503F` / `#A33A2C`. **Picked: T1 and L1, dot = emblem** (now `color-dark` and `color`). |
 | `generator/`                  | The scripts that build every board and every logo file (see its README)                           |
 
 Dropped along the way: the streak-red i-dot (the mineral's red powder; it read as an alert in the UI), the serif and mono directions, and ".gg" in the logo (domain lockups come later).

diff --git a/process/05-two-tone/README.md b/process/05-two-tone/README.md
@@ -1,6 +1,8 @@
 # Round 5: two-tone
 
-11 November 2026. The locked logo (E2 · B2 · C2 light · S6) with the emblem and the wordmark in separate colours. Nothing here replaces the one-colour files yet; if a pair is picked, it becomes a colourway and BRAND.md changes with it.
+11 November 2026. **Picked: T1 (steel emblem, white wordmark) and L1 (iron emblem, graphite wordmark), the i-dot in the emblem's colour.** They are now the `color-dark` and `color` colourways.
+
+The locked logo (E2 · B2 · C2 light · S6) with the emblem and the wordmark in separate colours. Nothing here replaces the one-colour files yet; if a pair is picked, it becomes a colourway and BRAND.md changes with it.
 
 - **01 On dark** (night `#09090B`): T1 steel/white, T2 white/steel, T3 steel/haze, T4 haze/steel, T5 steel/zinc-400, T6 haze/white, T7 streak/steel, T8 streak/white (emblem/wordmark).
 - **02 On light** (white): L1 iron/zinc-900, L2 slate/iron, L3 iron/slate, L4 haze/iron, L5 streak deep/iron, L6 iron/zinc-500.
